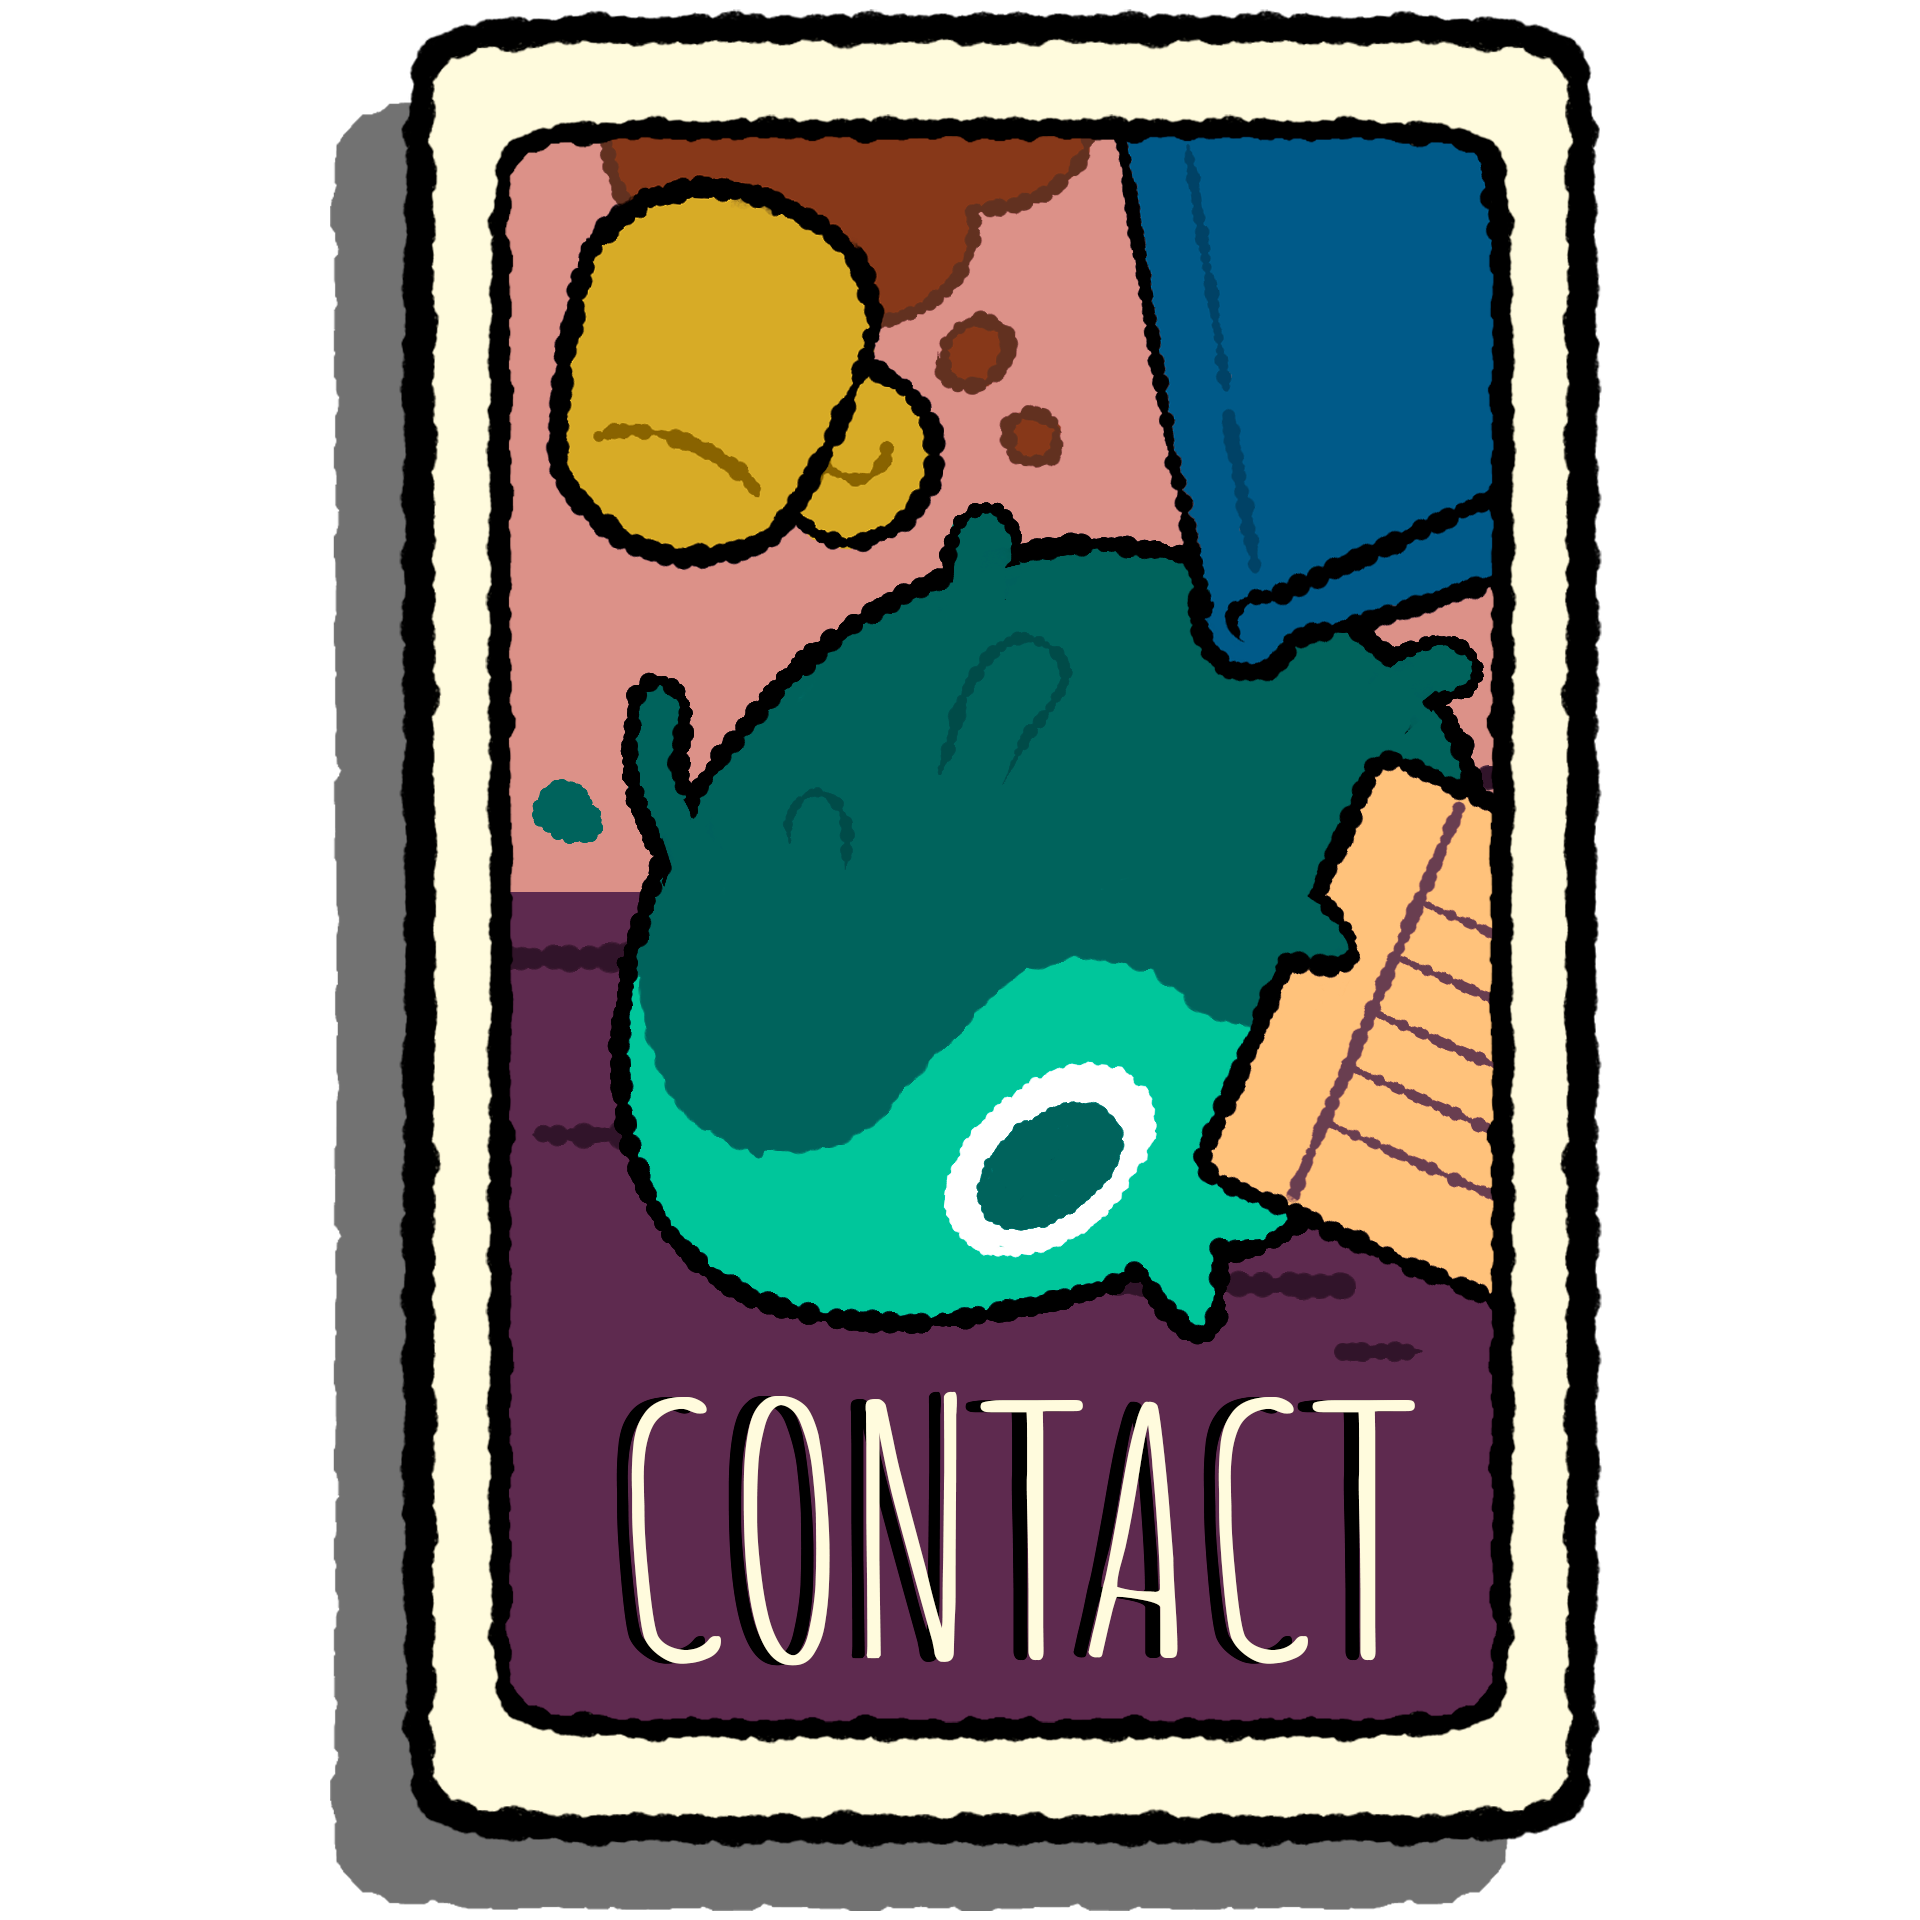
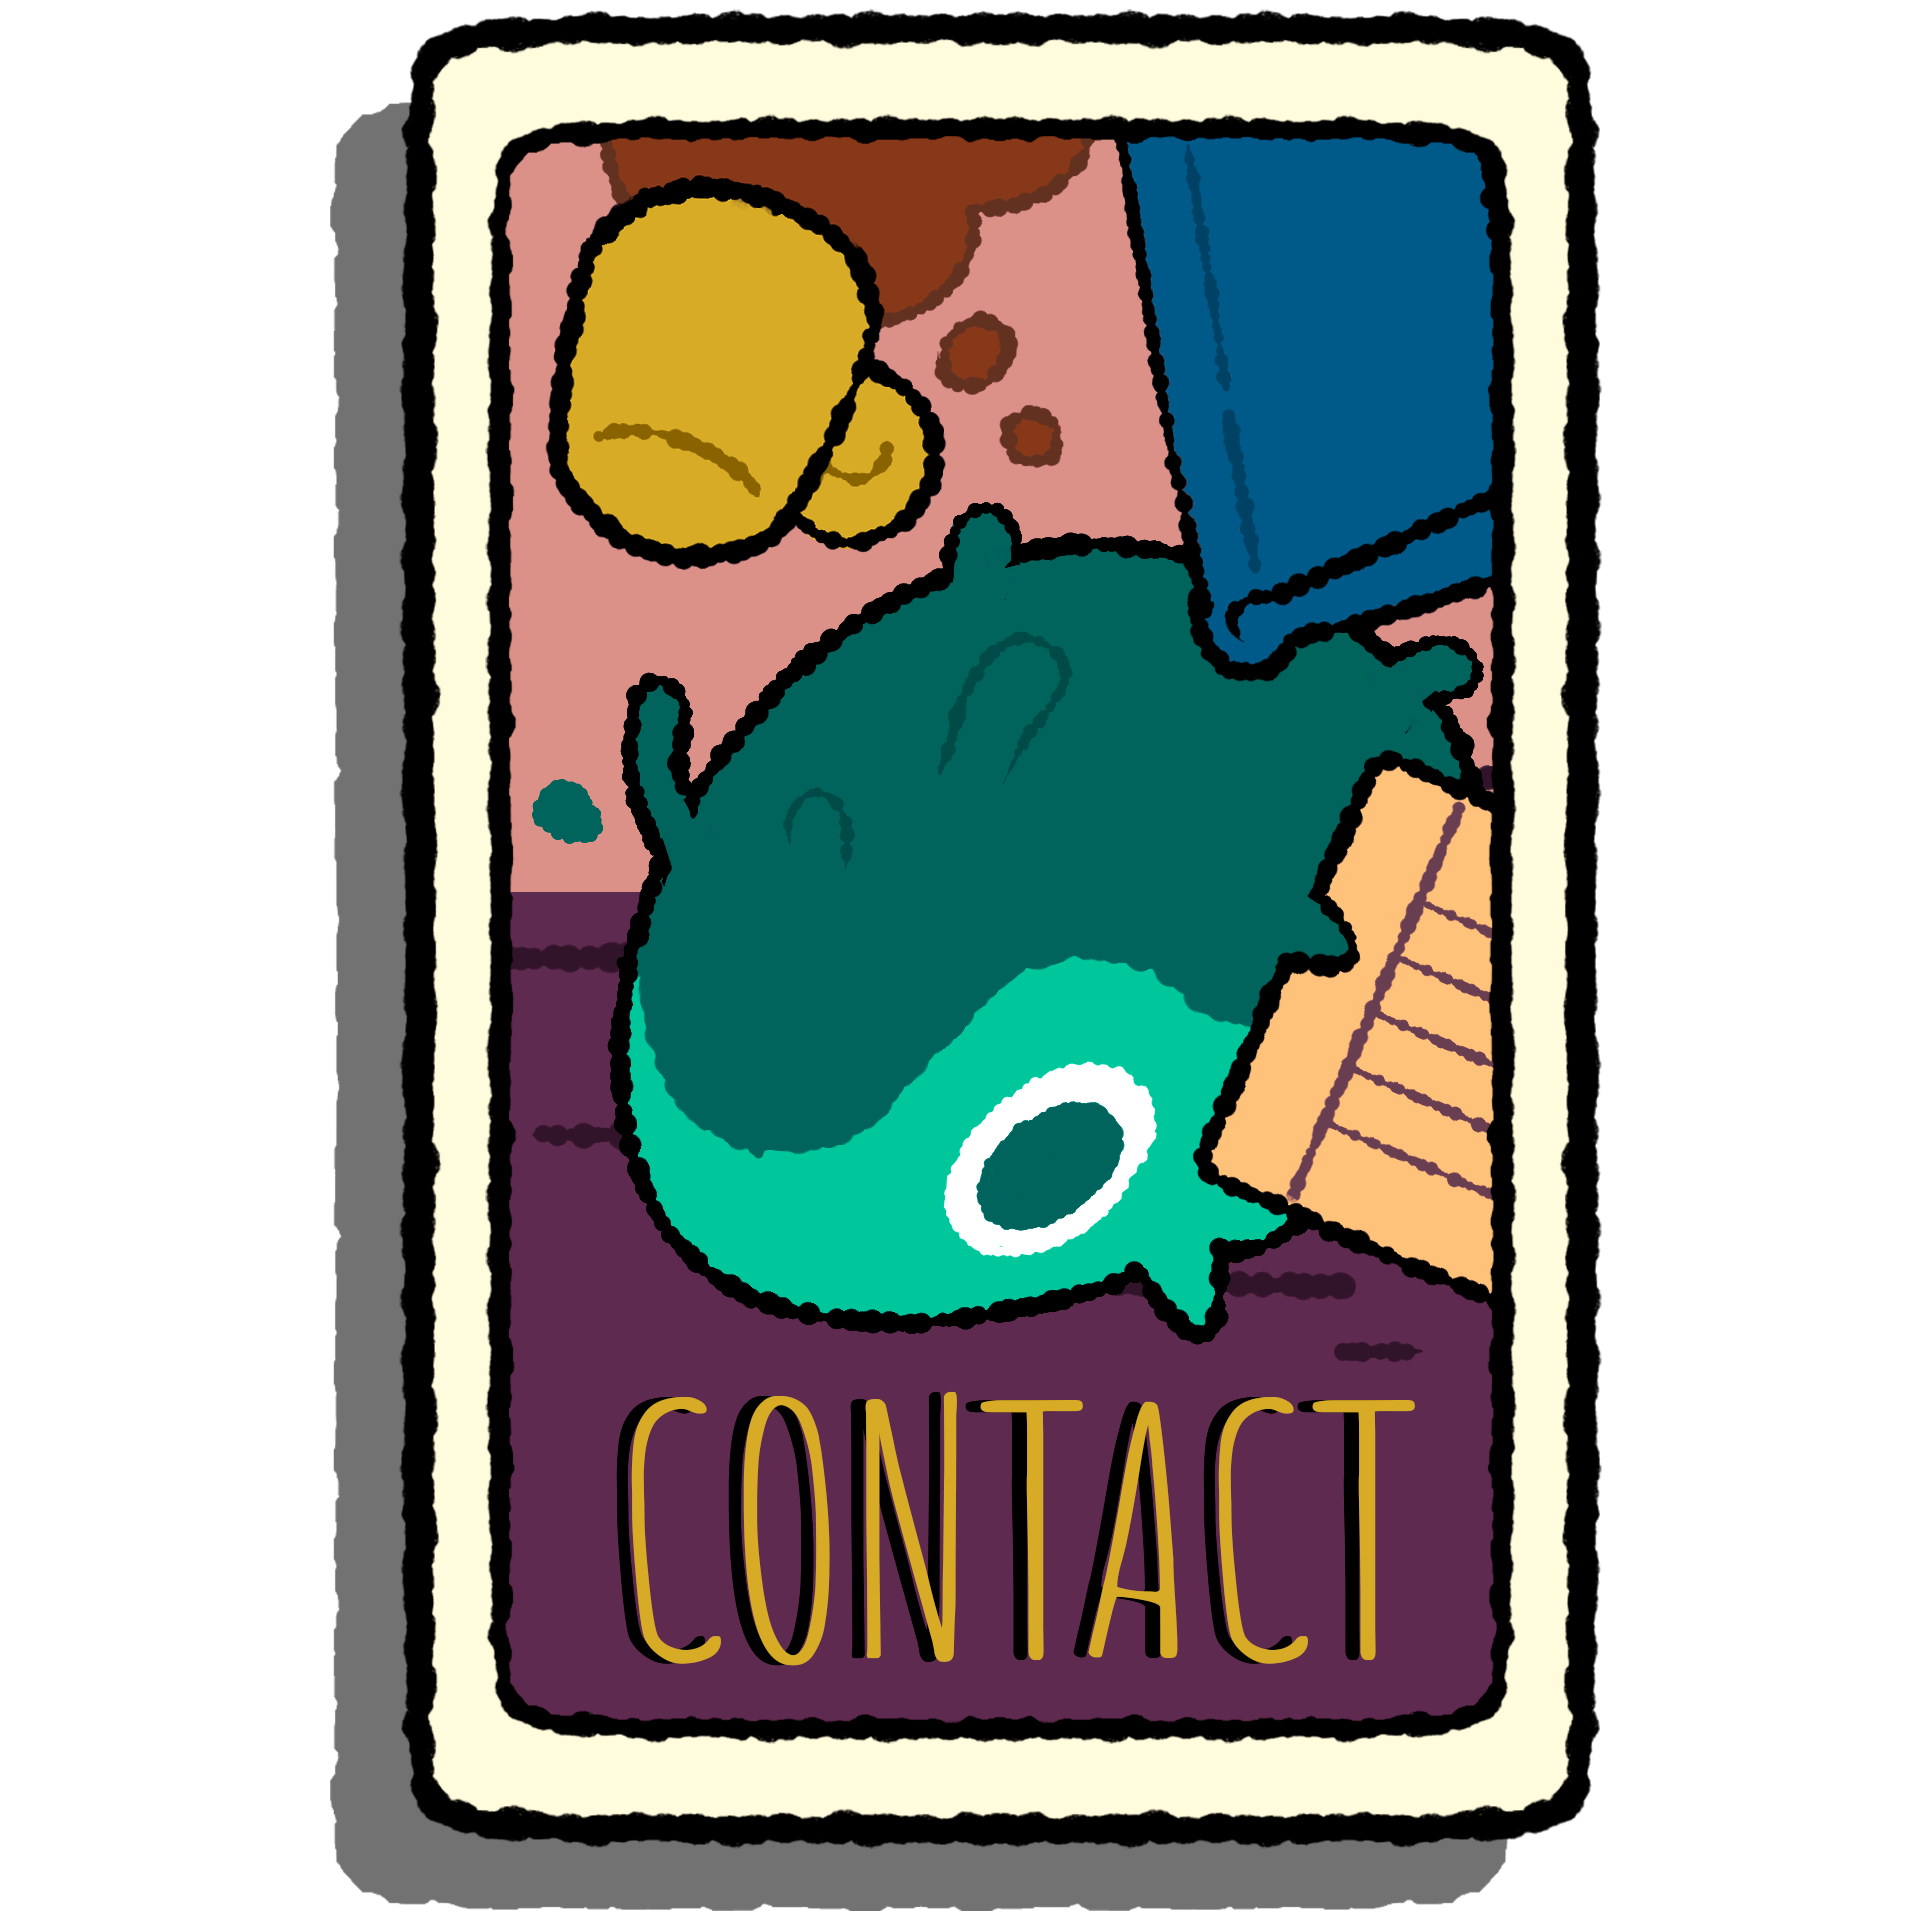
Card hover yellow font

Changed region(s): [[0.3125, 0.7188, 0.75, 0.875]]

diff --git a/src/components/TeamCarousel.tsx b/src/components/TeamCarousel.tsx
@@ -1,6 +1,6 @@
 'use client';
 
-import { useState } from 'react';
+import { useState, useEffect } from 'react';
 import Image from 'next/image';
 
 // Simple arrow icons as SVG components
@@ -34,6 +34,7 @@ interface TeamCarouselProps {
 export default function TeamCarousel({ teamMembers, locale }: TeamCarouselProps) {
 	const [currentIndex, setCurrentIndex] = useState(0);
 	const [clickedArrow, setClickedArrow] = useState<'left' | 'right' | null>(null);
+	const [isInitialLoad, setIsInitialLoad] = useState(true);
 	const maxVisible = 6;
 	const showArrows = teamMembers.length > maxVisible;
 
@@ -41,6 +42,14 @@ export default function TeamCarousel({ teamMembers, locale }: TeamCarouselProps)
 	const getLocalizedTitle = (title: { en: string; 'pt-BR': string }) => {
 		return title[locale as keyof typeof title] || title.en;
 	};
+
+	// Trigger initial animation on component mount
+	useEffect(() => {
+		const timer = setTimeout(() => {
+			setIsInitialLoad(false);
+		}, 100); // Small delay to ensure component is mounted
+		return () => clearTimeout(timer);
+	}, []);
 
 	const handlePrevious = () => {
 		setClickedArrow('left');
@@ -131,13 +140,27 @@ export default function TeamCarousel({ teamMembers, locale }: TeamCarouselProps)
 				{/* Team Members Container */}
 				<div className="flex-1">
 					<div className="flex justify-center space-x-6 py-4" style={{ paddingTop: '60px' }}>
-						{visibleMembers.map((member) => (
+						{visibleMembers.map((member, index) => (
 							<div
 								key={member.id}
-								className="group relative flex-shrink-0 z-50"
+								className={`group relative flex-shrink-0 z-50 transition-all duration-500 ease-out ${isInitialLoad
+									? 'opacity-0 transform translate-x-[-120px]'
+									: 'opacity-100 transform translate-x-0'
+									}`}
+								style={{
+									transitionDelay: `${index * 100}ms`, // Stagger the animations
+								}}
 							>
 								{/* Team Member Image */}
-								<div className="relative w-24 h-24 md:w-32 md:h-32 rounded-full overflow-hidden shadow-lg transition-all duration-300 group-hover:scale-110 group-hover:shadow-xl bg-gray-200">
+								<div className={`relative w-24 h-24 md:w-32 md:h-32 rounded-full overflow-hidden shadow-lg transition-all duration-300 group-hover:scale-110 group-hover:shadow-xl bg-gray-200 ${isInitialLoad
+									? 'transform rotate-[-120deg]'
+									: 'transform rotate-0'
+									}`}
+									style={{
+										transition: 'transform 0.75s ease-out, box-shadow 0.3s ease',
+										transitionDelay: `${index * 100}ms`,
+									}}
+								>
 									{member.image ? (
 										<Image
 											src={member.image}
